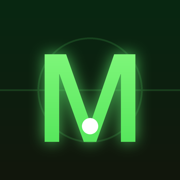
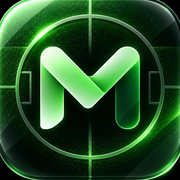
Matchday: yeni ikon, admin puan görünürlüğü ve şikayetler

diff --git a/lab/matchday/index.html b/lab/matchday/index.html
@@ -40,6 +40,7 @@
   .team { background: #1c221c; border-radius: 10px; padding: 10px; } .team.w { background: #e9ede9; color: #000; } a { color: var(--green); } .kpi b { color: var(--green); }
   #gate { padding-top: 80px; max-width: 420px; }
   label.set { display: block; margin: 12px 0; color: var(--muted); font-size: 12px; font-weight: 600; }
+  label.set select { display: block; width: 100%; margin-top: 6px; font: inherit; font-size: 14px; padding: 10px 12px; border: 1px solid var(--line); border-radius: 12px; background: var(--bg); color: var(--ink); }
   label.set input { display: block; width: 100%; margin-top: 6px; font: inherit; font-size: 14px; padding: 10px 12px; border: 1px solid var(--line); border-radius: 12px; background: var(--bg); color: var(--ink); box-sizing: border-box; }
 </style>
 </head>
@@ -69,7 +70,7 @@
     <section id="tab-overview"></section>
 
     <section id="tab-board" class="hidden">
-      <div class="card muted">Her oyuncunun aldığı oyların ortalaması. Hesapsız oyuncular (misafir) de puanlanır; bir hesaba bağlandıklarında puanları o hesaba eklenir. <b>Yayınla</b> ortalamayı hesabın profiline yazar (uygulamada şimdilik gizli).</div>
+      <div class="card muted">Her oyuncunun aldığı oyların ortalaması. Hesapsız oyuncular (misafir) de puanlanır; bir hesaba bağlandıklarında puanları o hesaba eklenir. <b>Yayınla</b> ortalamayı hesabın profiline yazar; uygulamada kimin göreceğini <b>Ayarlar</b> sekmesinden seçersin. Yeni oylar gelince tekrar Yayınla.</div>
       <div class="row">
         <input type="search" id="q-board" placeholder="Ara">
         <span class="muted">En az</span><input id="min-votes" type="number" value="3" style="width:60px;padding:8px;border:1px solid var(--line);border-radius:10px"><span class="muted">oy</span>
@@ -92,6 +93,8 @@
       <h3 style="margin-top:22px">Organizatörlerin oyuncu listeleri (hesapsız)</h3>
       <p class="muted">Bu listeyi yalnız ekleyen organizatör ve admin görür. Diğer kullanıcılar sadece hesapları görür.</p>
       <table id="t-players"></table>
+      <h3 style="margin-top:22px">Şikayetler</h3>
+      <table id="t-reports"></table>
     </section>
     <section id="tab-settings" class="hidden">
       <div class="card">
@@ -100,6 +103,9 @@
         <label class="set">Kadro paylaşımındaki indirme linki<input type="url" id="c-join" placeholder="https://berkalparslan.github.io/matchday/"></label>
         <label class="set">iPhone (TestFlight ya da App Store)<input type="url" id="c-ios" placeholder="https://testflight.apple.com/join/EkCzWQEM"></label>
         <label class="set">Android (Play test ya da mağaza)<input type="url" id="c-android" placeholder="https://play.google.com/apps/testing/com.aberk.matchday"></label>
+        <label class="set">Profilde puan
+          <select id="c-ratings"><option value="off">Kapalı: kimse görmez</option><option value="self">Yalnız kişi kendi puanını görür</option><option value="all">Herkes herkesinkini görür</option></select>
+        </label>
         <div class="row"><button class="btn" id="c-save">Kaydet</button><span class="muted" id="c-msg"></span></div>
       </div>
     </section>
@@ -117,7 +123,7 @@ const TR = { overall:"Genel", pace:"Hız", technique:"Teknik", teamwork:"Takım"
 const app = initializeApp(firebaseConfig), auth = getAuth(app), db = getFirestore(app);
 const $ = s => document.querySelector(s);
 const esc = s => String(s ?? "").replace(/[&<>"]/g, c => ({"&":"&amp;","<":"&lt;",">":"&gt;",'"':"&quot;"}[c]));
-let users = new Map(), players = new Map(), matches = new Map(), ratings = [];
+let users = new Map(), players = new Map(), matches = new Map(), ratings = [], reports = [];
 
 $("#signin").onclick = () => signInWithPopup(auth, new GoogleAuthProvider()).catch(e => $("#gate-msg").textContent = e.message);
 $("#signout").onclick = () => signOut(auth);
@@ -135,17 +141,18 @@ document.querySelectorAll("#tabs button").forEach(b => b.onclick = () => {
 });
 
 async function load() {
-  const [u, p, m, r] = await Promise.all(["users","players","matches","ratings"].map(c => getDocs(collection(db, c))));
+  const [u, p, m, r, rep] = await Promise.all(["users","players","matches","ratings","reports"].map(c => getDocs(collection(db, c))));
+  reports = rep.docs.map(d => ({ id: d.id, ...d.data() })).sort((a, b) => (b.createdAt?.seconds ?? 0) - (a.createdAt?.seconds ?? 0));
   users = new Map(u.docs.map(d => [d.id, d.data()]));
   players = new Map(p.docs.map(d => [d.id, d.data()]));
   matches = new Map(m.docs.map(d => [d.id, d.data()]).sort((a, b) => (b[1].startsAt?.seconds ?? 0) - (a[1].startsAt?.seconds ?? 0)));
   ratings = r.docs.map(d => ({ id: d.id, ...d.data() }));
-  overview(); board(); given(); matchList(); people(); settings();
+  overview(); board(); given(); matchList(); people(); reportList(); settings();
 }
 
 async function settings() {
   const c = (await getDoc(doc(db, "config", "app")).catch(() => null))?.data() ?? {};
-  $("#c-join").value = c.joinURL ?? ""; $("#c-ios").value = c.iosURL ?? ""; $("#c-android").value = c.androidURL ?? "";
+  $("#c-join").value = c.joinURL ?? ""; $("#c-ios").value = c.iosURL ?? ""; $("#c-android").value = c.androidURL ?? ""; $("#c-ratings").value = c.ratings ?? "off";
 }
 $("#c-save").onclick = async () => {
   const v = id => $(id).value.trim();
@@ -153,6 +160,7 @@ $("#c-save").onclick = async () => {
   if (v("#c-join")) data.joinURL = v("#c-join");
   if (v("#c-ios")) data.iosURL = v("#c-ios");
   if (v("#c-android")) data.androidURL = v("#c-android");
+  data.ratings = $("#c-ratings").value;
   try { await setDoc(doc(db, "config", "app"), data); $("#c-msg").textContent = "Kaydedildi."; }
   catch (e) { $("#c-msg").textContent = e.message; }
 };
@@ -257,6 +265,11 @@ function people() {
       <td class="num">${[...matches.values()].filter(m => (m.guests ?? []).some(g => g.id === id)).length}</td></tr>`).join("");
 }
 $("#q-people").oninput = people;
+function reportList() {
+  $("#t-reports").innerHTML = reports.length ? `<tr><th>Tarih</th><th>Şikayet eden</th><th>Hakkında</th><th>Sebep</th></tr>` +
+    reports.map(x => `<tr><td>${when(x.createdAt)}</td><td>${esc(name(x.fromUid))}</td><td><b>${esc(name(x.targetUid))}</b> ${kind(x.targetUid)}</td><td>${esc(x.reason)}</td></tr>`).join("")
+    : `<tr><td class="muted">Şikayet yok.</td></tr>`;
+}
 </script>
 </body>
 </html>
